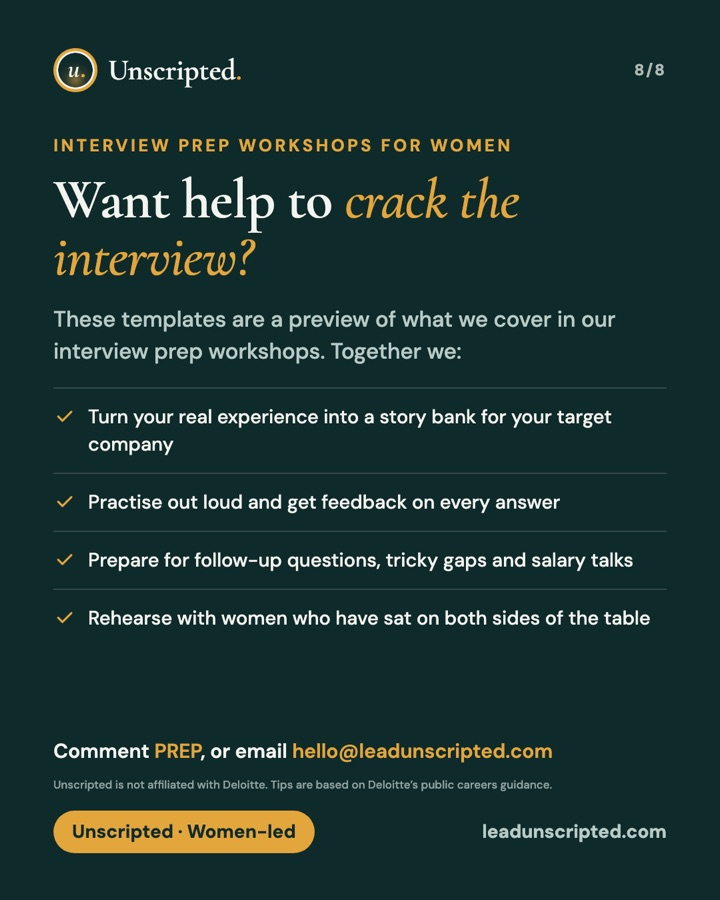
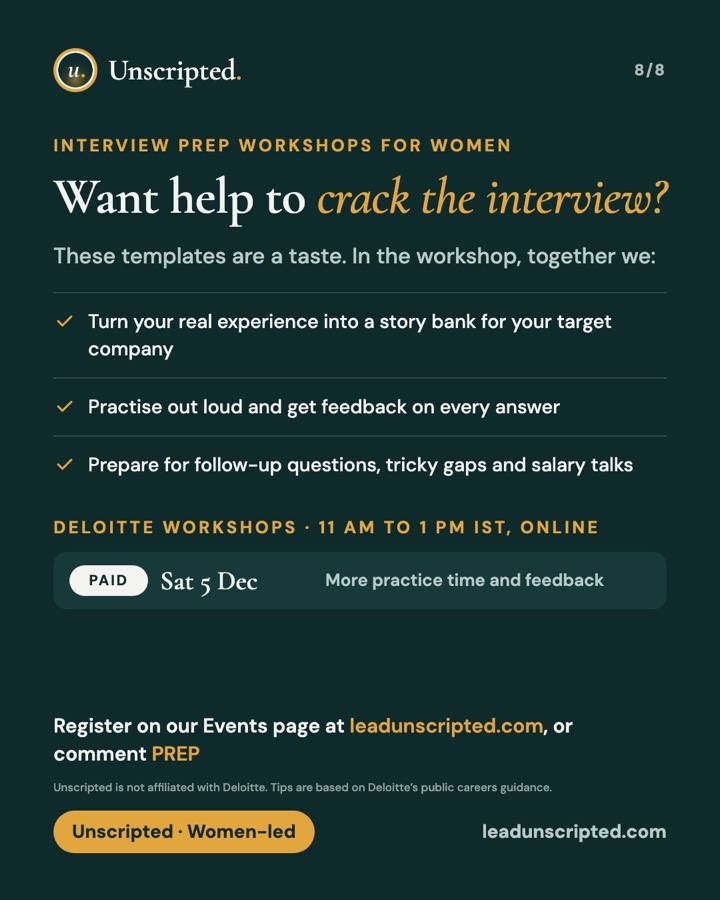
Interview prep: November free with limited seats, December paid; dates on the closing slides

Changed region(s): [[0.0611, 0.3422, 0.9167, 0.7156], [0.0611, 0.7778, 0.7944, 0.9022], [0.0611, 0.1867, 0.9472, 0.3111]]

diff --git a/events.html b/events.html
@@ -56,7 +56,7 @@
     <div class="head">
       <p class="eyebrow">Every Saturday, November and December</p>
       <h2>Interview prep workshops for women</h2>
-      <p class="lead">Have an interview coming up with Google, Amazon, Microsoft, Accenture or Deloitte? Each workshop focuses on one company: how it interviews, the answer method it expects, and question templates you fill with your own experience. Then you practise out loud and get feedback. The November workshops are a free pilot.</p>
+      <p class="lead">Have an interview coming up with Google, Amazon, Microsoft, Accenture or Deloitte? Each workshop focuses on one company: how it interviews, the answer method it expects, and question templates you fill with your own experience. Then you practise out loud and get feedback. November workshops are free, with limited seats. From December they are paid, with more practice time and feedback.</p>
     </div>
     <div class="prep-row">
       <div class="prep-cos"><span>Google</span><span>Amazon</span><span>Microsoft</span><span>Accenture</span><span>Deloitte</span></div>
@@ -237,7 +237,7 @@
   document.addEventListener('mousedown',hide);
 })();
 (function(){
-  var EV = [{"id": "prep-2026-11-07", "kind": "prep", "date": "2026-11-07", "title": "Interview prep: Google", "company": "Google", "slug": "google", "summary": "How Google interviews, the answer method to use, and templates you fill with your own stories. Practise out loud and get feedback.", "time": "11:00 am to 1:00 pm IST", "where": "Online", "free": true, "img": "prep/google", "slides": 8}, {"id": "prep-2026-11-14", "kind": "prep", "date": "2026-11-14", "title": "Interview prep: Amazon", "company": "Amazon", "slug": "amazon", "summary": "How Amazon interviews, the answer method to use, and templates you fill with your own stories. Practise out loud and get feedback.", "time": "11:00 am to 1:00 pm IST", "where": "Online", "free": true, "img": "prep/amazon", "slides": 8}, {"id": "prep-2026-11-21", "kind": "prep", "date": "2026-11-21", "title": "Interview prep: Microsoft", "company": "Microsoft", "slug": "microsoft", "summary": "How Microsoft interviews, the answer method to use, and templates you fill with your own stories. Practise out loud and get feedback.", "time": "11:00 am to 1:00 pm IST", "where": "Online", "free": true, "img": "prep/microsoft", "slides": 8}, {"id": "prep-2026-11-28", "kind": "prep", "date": "2026-11-28", "title": "Interview prep: Accenture", "company": "Accenture", "slug": "accenture", "summary": "How Accenture interviews, the answer method to use, and templates you fill with your own stories. Practise out loud and get feedback.", "time": "11:00 am to 1:00 pm IST", "where": "Online", "free": true, "img": "prep/accenture", "slides": 8}, {"id": "prep-2026-12-05", "kind": "prep", "date": "2026-12-05", "title": "Interview prep: Deloitte", "company": "Deloitte", "slug": "deloitte", "summary": "How Deloitte interviews, the answer method to use, and templates you fill with your own stories. Practise out loud and get feedback.", "time": "11:00 am to 1:00 pm IST", "where": "Online", "free": null, "img": "prep/deloitte", "slides": 8}, {"id": "prep-2026-12-12", "kind": "prep", "date": "2026-12-12", "title": "Interview prep: Google", "company": "Google", "slug": "google", "summary": "How Google interviews, the answer method to use, and templates you fill with your own stories. Practise out loud and get feedback.", "time": "11:00 am to 1:00 pm IST", "where": "Online", "free": null, "img": "prep/google", "slides": 8}, {"id": "prep-2026-12-19", "kind": "prep", "date": "2026-12-19", "title": "Interview prep: Amazon", "company": "Amazon", "slug": "amazon", "summary": "How Amazon interviews, the answer method to use, and templates you fill with your own stories. Practise out loud and get feedback.", "time": "11:00 am to 1:00 pm IST", "where": "Online", "free": null, "img": "prep/amazon", "slides": 8}, {"id": "prep-2026-12-26", "kind": "prep", "date": "2026-12-26", "title": "Interview prep: Microsoft", "company": "Microsoft", "slug": "microsoft", "summary": "How Microsoft interviews, the answer method to use, and templates you fill with your own stories. Practise out loud and get feedback.", "time": "11:00 am to 1:00 pm IST", "where": "Online", "free": null, "img": "prep/microsoft", "slides": 8}, {"id": "free-ai-2027-01-02", "kind": "free-ai", "date": "2027-01-02", "title": "AI, explained for your business", "summary": "What AI can and cannot do for a small business, and how to use it safely.", "part": "Part 1 of 13", "time": "11:00 am to 1:00 pm IST", "where": "Online", "free": true, "img": "ai/ai-01", "slides": 7}, {"id": "free-ai-2027-01-09", "kind": "free-ai", "date": "2027-01-09", "title": "Write it with AI", "summary": "Product descriptions, captions and customer messages, in your own voice.", "part": "Part 2 of 13", "time": "11:00 am to 1:00 pm IST", "where": "Online", "free": true, "img": "ai/ai-02", "slides": 7}, {"id": "free-ai-2027-01-16", "kind": "free-ai", "date": "2027-01-16", "title": "Your brand look with AI", "summary": "A simple logo, colours and fonts that look professional everywhere.", "part": "Part 3 of 13", "time": "11:00 am to 1:00 pm IST", "where": "Online", "free": true, "img": "ai/ai-03", "slides": 7}, {"id": "free-ai-2027-01-23", "kind": "free-ai", "date": "2027-01-23", "title": "Better product photos with AI", "summary": "Clean, bright product pictures and visuals from the photos on your phone.", "part": "Part 4 of 13", "time": "11:00 am to 1:00 pm IST", "where": "Online", "free": true, "img": "ai/ai-04", "slides": 7}, {"id": "free-ai-2027-01-30", "kind": "free-ai", "date": "2027-01-30", "title": "A month of posts in an afternoon", "summary": "Plan and make a month of social media posts for your business.", "part": "Part 5 of 13", "time": "11:00 am to 1:00 pm IST", "where": "Online", "free": true, "img": "ai/ai-05", "slides": 7}, {"id": "free-ai-2027-02-06", "kind": "free-ai", "date": "2027-02-06", "title": "WhatsApp Business, done well", "summary": "Your catalogue, quick replies and broadcast messages, with AI’s help.", "part": "Part 6 of 13", "time": "11:00 am to 1:00 pm IST", "where": "Online", "free": true, "img": "ai/ai-06", "slides": 7}, {"id": "free-ai-2027-02-13", "kind": "free-ai", "date": "2027-02-13", "title": "Your first simple website", "summary": "A one-page website for your business, built with AI, that you own.", "part": "Part 7 of 13", "time": "11:00 am to 1:00 pm IST", "where": "Online", "free": true, "img": "ai/ai-07", "slides": 7}, {"id": "free-ai-2027-02-20", "kind": "free-ai", "date": "2027-02-20", "title": "Pricing and simple accounts", "summary": "Work out your costs and prices, and keep track of money, with AI and a simple sheet.", "part": "Part 8 of 13", "time": "11:00 am to 1:00 pm IST", "where": "Online", "free": true, "img": "ai/ai-08", "slides": 7}, {"id": "free-ai-2027-02-27", "kind": "free-ai", "date": "2027-02-27", "title": "Customers and reviews", "summary": "Answer questions, handle complaints kindly and ask happy customers for reviews.", "part": "Part 9 of 13", "time": "11:00 am to 1:00 pm IST", "where": "Online", "free": true, "img": "ai/ai-09", "slides": 7}, {"id": "free-ai-2027-03-06", "kind": "free-ai", "date": "2027-03-06", "title": "Short videos and reels", "summary": "Scripts, captions and simple edits for short videos, with AI.", "part": "Part 10 of 13", "time": "11:00 am to 1:00 pm IST", "where": "Online", "free": true, "img": "ai/ai-10", "slides": 7}, {"id": "free-ai-2027-03-13", "kind": "free-ai", "date": "2027-03-13", "title": "Taking orders and payments online", "summary": "The simplest ways to take orders and get paid online, step by step.", "part": "Part 11 of 13", "time": "11:00 am to 1:00 pm IST", "where": "Online", "free": true, "img": "ai/ai-11", "slides": 7}, {"id": "free-ai-2027-03-20", "kind": "free-ai", "date": "2027-03-20", "title": "Stay safe online", "summary": "Spot scams, protect your accounts and keep your customers’ data safe.", "part": "Part 12 of 13", "time": "11:00 am to 1:00 pm IST", "where": "Online", "free": true, "img": "ai/ai-12", "slides": 7}, {"id": "free-ai-2027-03-27", "kind": "free-ai", "date": "2027-03-27", "title": "Your 90-day plan", "summary": "Bring it all together and leave with a plan for the next three months.", "part": "Part 13 of 13", "time": "11:00 am to 1:00 pm IST", "where": "Online", "free": true, "img": "ai/ai-13", "slides": 7}, {"id": "free-career-interviews", "kind": "free-career", "title": "Interview skills for women returning to work", "summary": "Prepare for interviews with confidence after a career break.", "free": true, "time": "Time to be announced", "where": "Online", "date": ""}, {"id": "free-career-cv", "kind": "free-career", "title": "Your CV, LinkedIn profile and cover letter", "summary": "Present your experience clearly, including the years you were away.", "free": true, "time": "Time to be announced", "where": "Online", "date": ""}, {"id": "free-career-presence", "kind": "free-career", "title": "Confidence and presence at work", "summary": "Speak up, be heard and present yourself with confidence.", "free": true, "time": "Time to be announced", "where": "Online", "date": ""}, {"id": "paid-ai-l1", "kind": "paid", "title": "Launch your business with AI, in a day", "summary": "Level 1, Foundation. The paid one-day Saturday workshop, 9:45 am to 5:00 pm, online.", "free": false, "href": "index.html#reg-ai-owners", "more": "ai-literacy.html#workshop", "time": "Time to be announced", "where": "Online", "date": ""}, {"id": "paid-ai-l2", "kind": "paid", "title": "Launch and run with AI: the 2-day programme", "summary": "Level 2, Intermediate. Two Saturdays, paid.", "free": false, "href": "index.html#reg-ai-business-2-day", "more": "training-ai-business-2-day.html", "time": "Time to be announced", "where": "Online", "date": ""}, {"id": "paid-ai-l3", "kind": "paid", "title": "Grow your business online with AI: the 4-day programme", "summary": "Level 3, Advanced. Four Saturdays, paid.", "free": false, "href": "index.html#reg-ai-business-programme", "more": "training-ai-business-programme.html", "time": "Time to be announced", "where": "Online", "date": ""}, {"id": "trainers-ai", "kind": "trainers", "title": "AI literacy for trainers", "summary": "Free for trainers who join our Founding 50.", "free": true, "href": "train-with-us.html#founding", "more": "train-with-us.html", "time": "Time to be announced", "where": "Online", "date": ""}];
+  var EV = [{"id": "prep-2026-11-07", "kind": "prep", "date": "2026-11-07", "title": "Interview prep: Google", "company": "Google", "slug": "google", "summary": "How Google interviews, the answer method to use, and templates you fill with your own stories. Practise out loud and get feedback. Free, with limited seats.", "time": "11:00 am to 1:00 pm IST", "where": "Online", "free": true, "img": "prep/google", "slides": 8}, {"id": "prep-2026-11-14", "kind": "prep", "date": "2026-11-14", "title": "Interview prep: Amazon", "company": "Amazon", "slug": "amazon", "summary": "How Amazon interviews, the answer method to use, and templates you fill with your own stories. Practise out loud and get feedback. Free, with limited seats.", "time": "11:00 am to 1:00 pm IST", "where": "Online", "free": true, "img": "prep/amazon", "slides": 8}, {"id": "prep-2026-11-21", "kind": "prep", "date": "2026-11-21", "title": "Interview prep: Microsoft", "company": "Microsoft", "slug": "microsoft", "summary": "How Microsoft interviews, the answer method to use, and templates you fill with your own stories. Practise out loud and get feedback. Free, with limited seats.", "time": "11:00 am to 1:00 pm IST", "where": "Online", "free": true, "img": "prep/microsoft", "slides": 8}, {"id": "prep-2026-11-28", "kind": "prep", "date": "2026-11-28", "title": "Interview prep: Accenture", "company": "Accenture", "slug": "accenture", "summary": "How Accenture interviews, the answer method to use, and templates you fill with your own stories. Practise out loud and get feedback. Free, with limited seats.", "time": "11:00 am to 1:00 pm IST", "where": "Online", "free": true, "img": "prep/accenture", "slides": 8}, {"id": "prep-2026-12-05", "kind": "prep", "date": "2026-12-05", "title": "Interview prep: Deloitte", "company": "Deloitte", "slug": "deloitte", "summary": "How Deloitte interviews, the answer method to use, and templates you fill with your own stories. Practise out loud and get feedback. Paid workshop, with more practice time and feedback. We email you the fee before you confirm your place.", "time": "11:00 am to 1:00 pm IST", "where": "Online", "free": false, "img": "prep/deloitte", "slides": 8}, {"id": "prep-2026-12-12", "kind": "prep", "date": "2026-12-12", "title": "Interview prep: Google", "company": "Google", "slug": "google", "summary": "How Google interviews, the answer method to use, and templates you fill with your own stories. Practise out loud and get feedback. Paid workshop, with more practice time and feedback. We email you the fee before you confirm your place.", "time": "11:00 am to 1:00 pm IST", "where": "Online", "free": false, "img": "prep/google", "slides": 8}, {"id": "prep-2026-12-19", "kind": "prep", "date": "2026-12-19", "title": "Interview prep: Amazon", "company": "Amazon", "slug": "amazon", "summary": "How Amazon interviews, the answer method to use, and templates you fill with your own stories. Practise out loud and get feedback. Paid workshop, with more practice time and feedback. We email you the fee before you confirm your place.", "time": "11:00 am to 1:00 pm IST", "where": "Online", "free": false, "img": "prep/amazon", "slides": 8}, {"id": "prep-2026-12-26", "kind": "prep", "date": "2026-12-26", "title": "Interview prep: Microsoft", "company": "Microsoft", "slug": "microsoft", "summary": "How Microsoft interviews, the answer method to use, and templates you fill with your own stories. Practise out loud and get feedback. Paid workshop, with more practice time and feedback. We email you the fee before you confirm your place.", "time": "11:00 am to 1:00 pm IST", "where": "Online", "free": false, "img": "prep/microsoft", "slides": 8}, {"id": "free-ai-2027-01-02", "kind": "free-ai", "date": "2027-01-02", "title": "AI, explained for your business", "summary": "What AI can and cannot do for a small business, and how to use it safely.", "part": "Part 1 of 13", "time": "11:00 am to 1:00 pm IST", "where": "Online", "free": true, "img": "ai/ai-01", "slides": 7}, {"id": "free-ai-2027-01-09", "kind": "free-ai", "date": "2027-01-09", "title": "Write it with AI", "summary": "Product descriptions, captions and customer messages, in your own voice.", "part": "Part 2 of 13", "time": "11:00 am to 1:00 pm IST", "where": "Online", "free": true, "img": "ai/ai-02", "slides": 7}, {"id": "free-ai-2027-01-16", "kind": "free-ai", "date": "2027-01-16", "title": "Your brand look with AI", "summary": "A simple logo, colours and fonts that look professional everywhere.", "part": "Part 3 of 13", "time": "11:00 am to 1:00 pm IST", "where": "Online", "free": true, "img": "ai/ai-03", "slides": 7}, {"id": "free-ai-2027-01-23", "kind": "free-ai", "date": "2027-01-23", "title": "Better product photos with AI", "summary": "Clean, bright product pictures and visuals from the photos on your phone.", "part": "Part 4 of 13", "time": "11:00 am to 1:00 pm IST", "where": "Online", "free": true, "img": "ai/ai-04", "slides": 7}, {"id": "free-ai-2027-01-30", "kind": "free-ai", "date": "2027-01-30", "title": "A month of posts in an afternoon", "summary": "Plan and make a month of social media posts for your business.", "part": "Part 5 of 13", "time": "11:00 am to 1:00 pm IST", "where": "Online", "free": true, "img": "ai/ai-05", "slides": 7}, {"id": "free-ai-2027-02-06", "kind": "free-ai", "date": "2027-02-06", "title": "WhatsApp Business, done well", "summary": "Your catalogue, quick replies and broadcast messages, with AI’s help.", "part": "Part 6 of 13", "time": "11:00 am to 1:00 pm IST", "where": "Online", "free": true, "img": "ai/ai-06", "slides": 7}, {"id": "free-ai-2027-02-13", "kind": "free-ai", "date": "2027-02-13", "title": "Your first simple website", "summary": "A one-page website for your business, built with AI, that you own.", "part": "Part 7 of 13", "time": "11:00 am to 1:00 pm IST", "where": "Online", "free": true, "img": "ai/ai-07", "slides": 7}, {"id": "free-ai-2027-02-20", "kind": "free-ai", "date": "2027-02-20", "title": "Pricing and simple accounts", "summary": "Work out your costs and prices, and keep track of money, with AI and a simple sheet.", "part": "Part 8 of 13", "time": "11:00 am to 1:00 pm IST", "where": "Online", "free": true, "img": "ai/ai-08", "slides": 7}, {"id": "free-ai-2027-02-27", "kind": "free-ai", "date": "2027-02-27", "title": "Customers and reviews", "summary": "Answer questions, handle complaints kindly and ask happy customers for reviews.", "part": "Part 9 of 13", "time": "11:00 am to 1:00 pm IST", "where": "Online", "free": true, "img": "ai/ai-09", "slides": 7}, {"id": "free-ai-2027-03-06", "kind": "free-ai", "date": "2027-03-06", "title": "Short videos and reels", "summary": "Scripts, captions and simple edits for short videos, with AI.", "part": "Part 10 of 13", "time": "11:00 am to 1:00 pm IST", "where": "Online", "free": true, "img": "ai/ai-10", "slides": 7}, {"id": "free-ai-2027-03-13", "kind": "free-ai", "date": "2027-03-13", "title": "Taking orders and payments online", "summary": "The simplest ways to take orders and get paid online, step by step.", "part": "Part 11 of 13", "time": "11:00 am to 1:00 pm IST", "where": "Online", "free": true, "img": "ai/ai-11", "slides": 7}, {"id": "free-ai-2027-03-20", "kind": "free-ai", "date": "2027-03-20", "title": "Stay safe online", "summary": "Spot scams, protect your accounts and keep your customers’ data safe.", "part": "Part 12 of 13", "time": "11:00 am to 1:00 pm IST", "where": "Online", "free": true, "img": "ai/ai-12", "slides": 7}, {"id": "free-ai-2027-03-27", "kind": "free-ai", "date": "2027-03-27", "title": "Your 90-day plan", "summary": "Bring it all together and leave with a plan for the next three months.", "part": "Part 13 of 13", "time": "11:00 am to 1:00 pm IST", "where": "Online", "free": true, "img": "ai/ai-13", "slides": 7}, {"id": "free-career-interviews", "kind": "free-career", "title": "Interview skills for women returning to work", "summary": "Prepare for interviews with confidence after a career break.", "free": true, "time": "Time to be announced", "where": "Online", "date": ""}, {"id": "free-career-cv", "kind": "free-career", "title": "Your CV, LinkedIn profile and cover letter", "summary": "Present your experience clearly, including the years you were away.", "free": true, "time": "Time to be announced", "where": "Online", "date": ""}, {"id": "free-career-presence", "kind": "free-career", "title": "Confidence and presence at work", "summary": "Speak up, be heard and present yourself with confidence.", "free": true, "time": "Time to be announced", "where": "Online", "date": ""}, {"id": "paid-ai-l1", "kind": "paid", "title": "Launch your business with AI, in a day", "summary": "Level 1, Foundation. The paid one-day Saturday workshop, 9:45 am to 5:00 pm, online.", "free": false, "href": "index.html#reg-ai-owners", "more": "ai-literacy.html#workshop", "time": "Time to be announced", "where": "Online", "date": ""}, {"id": "paid-ai-l2", "kind": "paid", "title": "Launch and run with AI: the 2-day programme", "summary": "Level 2, Intermediate. Two Saturdays, paid.", "free": false, "href": "index.html#reg-ai-business-2-day", "more": "training-ai-business-2-day.html", "time": "Time to be announced", "where": "Online", "date": ""}, {"id": "paid-ai-l3", "kind": "paid", "title": "Grow your business online with AI: the 4-day programme", "summary": "Level 3, Advanced. Four Saturdays, paid.", "free": false, "href": "index.html#reg-ai-business-programme", "more": "training-ai-business-programme.html", "time": "Time to be announced", "where": "Online", "date": ""}, {"id": "trainers-ai", "kind": "trainers", "title": "AI literacy for trainers", "summary": "Free for trainers who join our Founding 50.", "free": true, "href": "train-with-us.html#founding", "more": "train-with-us.html", "time": "Time to be announced", "where": "Online", "date": ""}];
   function cap(name){ return window.claude && window.claude.use ? window.claude.use(name) : Promise.resolve(null) }
   var MONTHS=['January','February','March','April','May','June','July','August','September','October','November','December'];
   var DAYS=['Sun','Mon','Tue','Wed','Thu','Fri','Sat'];
@@ -246,7 +246,7 @@
   function card(e){
     var d=e.date?new Date(e.date+'T00:00:00'):null;
     var tile=d?'<div class="date"><small>'+DAYS[d.getDay()]+'</small><b>'+d.getDate()+'</b><small>'+MONTHS[d.getMonth()].slice(0,3)+'</small></div>':'<div class="date tba"><small>Date</small><b>TBA</b></div>';
-    var tags=e.kind==='prep'?'<span class="tag prep">Interview prep</span>'+(e.free?'<span class="tag free">Free pilot</span>':'<span class="tag">Fee to be announced</span>')+'<span class="tag">Women only</span>':'<span class="tag '+(e.free?'free':'paid')+'">'+(e.free?'Free':'Paid')+'</span>';
+    var tags=e.kind==='prep'?'<span class="tag prep">Interview prep</span>'+(e.free?'<span class="tag free">Free · limited seats</span>':'<span class="tag paid">Paid</span>')+'<span class="tag">Women only</span>':'<span class="tag '+(e.free?'free':'paid')+'">'+(e.free?'Free':'Paid')+'</span>';
     if(e.kind==='free-ai')tags+='<span class="tag">Women only</span><span class="tag">10 places</span><span class="tag">'+esc(e.part)+'</span>';
     if(e.kind==='free-career')tags+='<span class="tag">Women only</span>';
     var btn=e.kind==='prep'?'<div class="ev-btns"><button class="btn btn-line" type="button" data-preview="'+e.id+'">Preview</button><button class="btn btn-gold" type="button" data-apply="'+e.id+'">Register →</button></div>':(e.kind==='free-ai'||e.kind==='free-career')?(e.img?'<div class="ev-btns"><button class="btn btn-line" type="button" data-preview="'+e.id+'">Preview</button>':'')+'<button class="btn btn-gold" type="button" data-apply="'+e.id+'">'+(e.date?'Apply for this session':'Register interest')+' →</button>'+(e.img?'</div>':''):'<a class="btn btn-line" href="'+e.href+'">Register →</a>';
